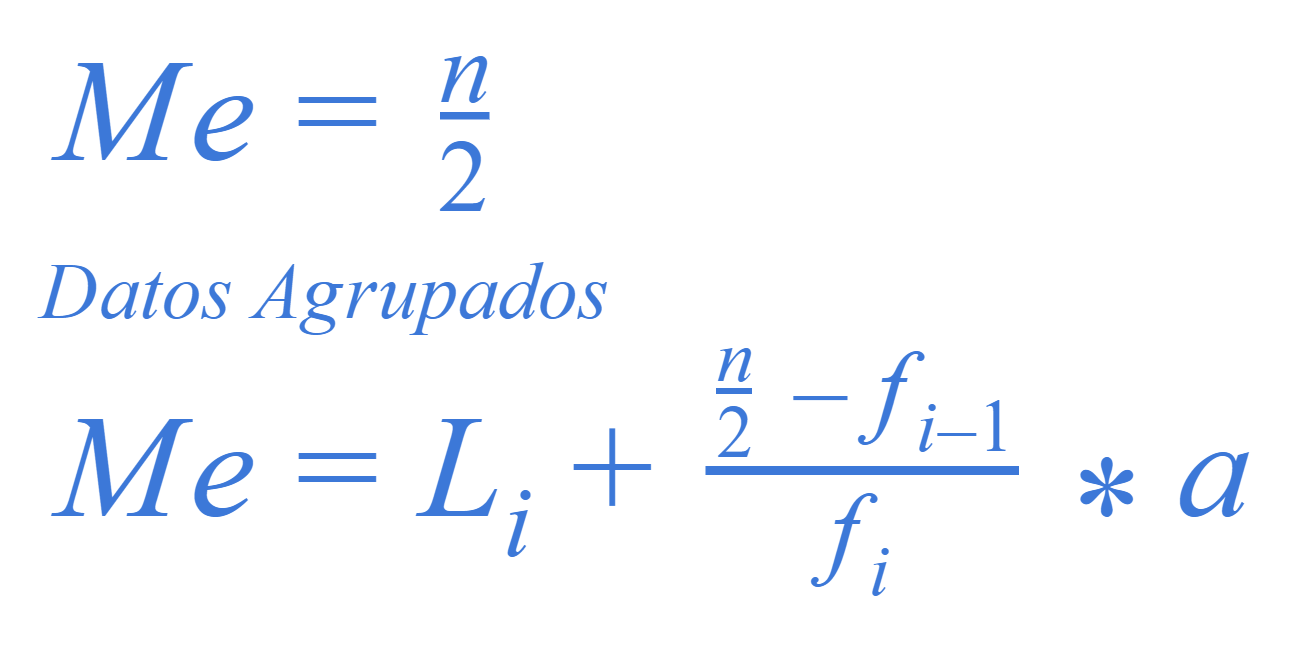
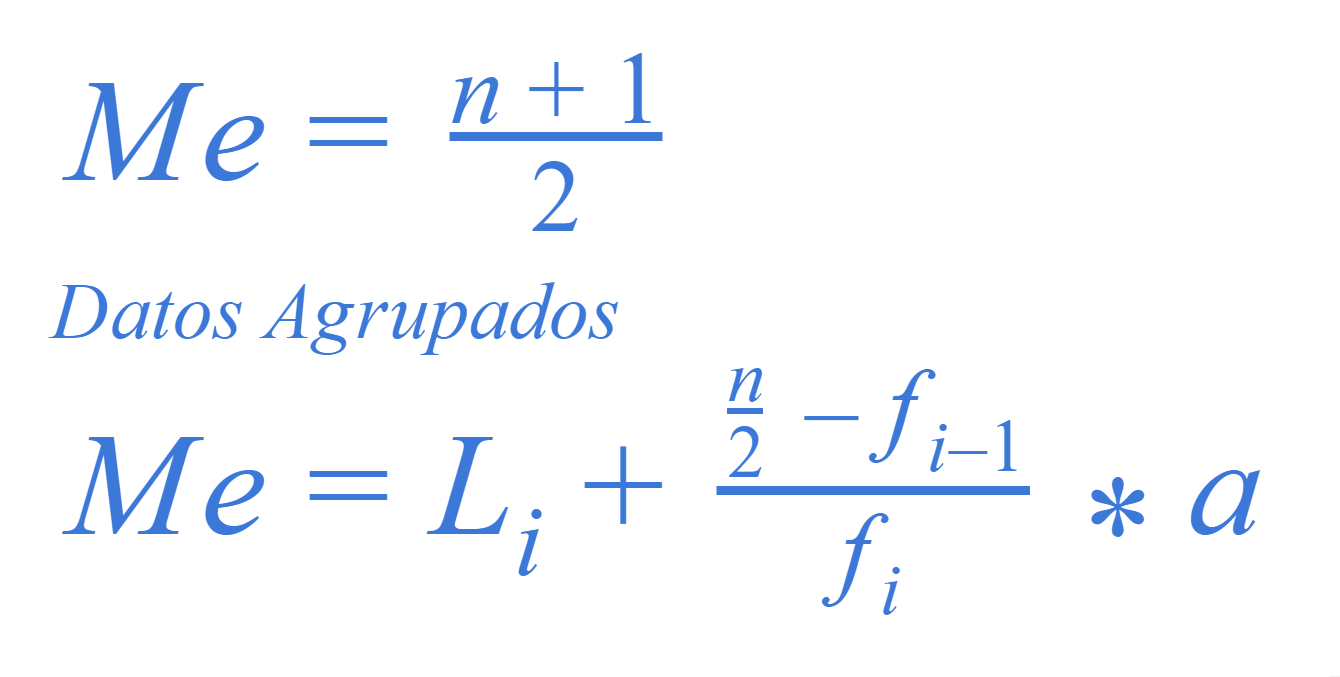
Qantils

diff --git a/lib/src/pages/home_page.dart b/lib/src/pages/home_page.dart
@@ -269,11 +269,11 @@ class HomePage extends StatelessWidget {
                       pageColor: Colors.indigo[900],
                       params: {
                         'Sumatoria de los Datos': 1.0,
-                        'Numero de Datos': 1.0,
+                        'Número de Datos': 1.0,
                       },
                       formula: (Map<String, double> m) {
                         double ex = m['Sumatoria de los Datos'];
-                        double n = m['Numero de Datos'];
+                        double n = m['Número de Datos'];
 
                         return ex / n;
                       },
@@ -283,11 +283,11 @@ class HomePage extends StatelessWidget {
                       pageColor: Colors.indigo[900],
                       params: {
                         'Sumatoria de los Datos x Frecuencia': 1.0,
-                        'Numero de Datos': 1.0,
+                        'Número de Datos': 1.0,
                       },
                       formula: (Map<String, double> m) {
                         double exf = m['Sumatoria de los Datos x Frecuencia'];
-                        double n = m['Numero de Datos'];
+                        double n = m['Número de Datos'];
 
                         return exf / n;
                       },
@@ -345,9 +345,9 @@ class HomePage extends StatelessWidget {
                         'Número de Datos': 2.0,
                       },
                       formula: (Map<String, double> m) {
-                        double n = m['Número de Datos'];
+                        int n = m['Número de Datos'].floor();
 
-                        return n / 2;
+                        return (n + 1) / 2;
                       },
                     ),
                     FormulaButtonArguments(
@@ -414,12 +414,12 @@ class HomePage extends StatelessWidget {
                         'Cuartil a Calcular (1-3)': 1.0,
                       },
                       formula: (Map<String, double> m) {
-                        double n = m['Numero de Datos'];
-                        double k = m['Cuartil a Calcular (1-3)'];
+                        int n = m['Número de Datos'].floor();
+                        int k = m['Cuartil a Calcular (1-3)'].floor();
 
-                        if (k <= 3 && k >= 1) return 0.0;
+                        if (k > 3 || k < 1) return 0.0;
 
-                        return (n * k) / 4;
+                        return ((n + 1) * k) / 4;
                       },
                     ),
                     FormulaButtonArguments(
@@ -430,12 +430,12 @@ class HomePage extends StatelessWidget {
                         'Quintil a Calcular (1-4)': 1.0,
                       },
                       formula: (Map<String, double> m) {
-                        double n = m['Numero de Datos'];
-                        double k = m['Quintil a Calcular (1-4)'];
+                        int n = m['Número de Datos'].floor();
+                        int k = m['Quintil a Calcular (1-4)'].floor();
 
-                        if (k <= 4 && k >= 1) return 0.0;
+                        if (k > 4 || k < 1) return 0.0;
 
-                        return (n * k) / 5;
+                        return ((n + 1) * k) / 5;
                       },
                     ),
                     FormulaButtonArguments(
@@ -446,12 +446,12 @@ class HomePage extends StatelessWidget {
                         'Decil a Calcular (1-4)': 1.0,
                       },
                       formula: (Map<String, double> m) {
-                        double n = m['Numero de Datos'];
-                        double k = m['Decil a Calcular (1-9)'];
+                        int n = m['Número de Datos'].floor();
+                        int k = m['Decil a Calcular (1-9)'].floor();
 
-                        if (k <= 9 && k >= 1) return 0.0;
+                        if (k > 9 || k < 1) return 0.0;
 
-                        return (n * k) / 10;
+                        return ((n + 1) * k) / 10;
                       },
                     ),
                     FormulaButtonArguments(
@@ -462,12 +462,12 @@ class HomePage extends StatelessWidget {
                         'Percentil a Calcular (1-99)': 1.0,
                       },
                       formula: (Map<String, double> m) {
-                        double n = m['Numero de Datos'];
-                        double k = m['Percentil a Calcular (1-99)'];
+                        int n = m['Número de Datos'].floor();
+                        int k = m['Percentil a Calcular (1-99)'].floor();
 
-                        if (k <= 99 && k >= 1) return 0.0;
+                        if (k > 99 || k < 1) return 0.0;
 
-                        return (n * k) / 100;
+                        return ((n + 1) * k) / 100;
                       },
                     ),
                   ],
